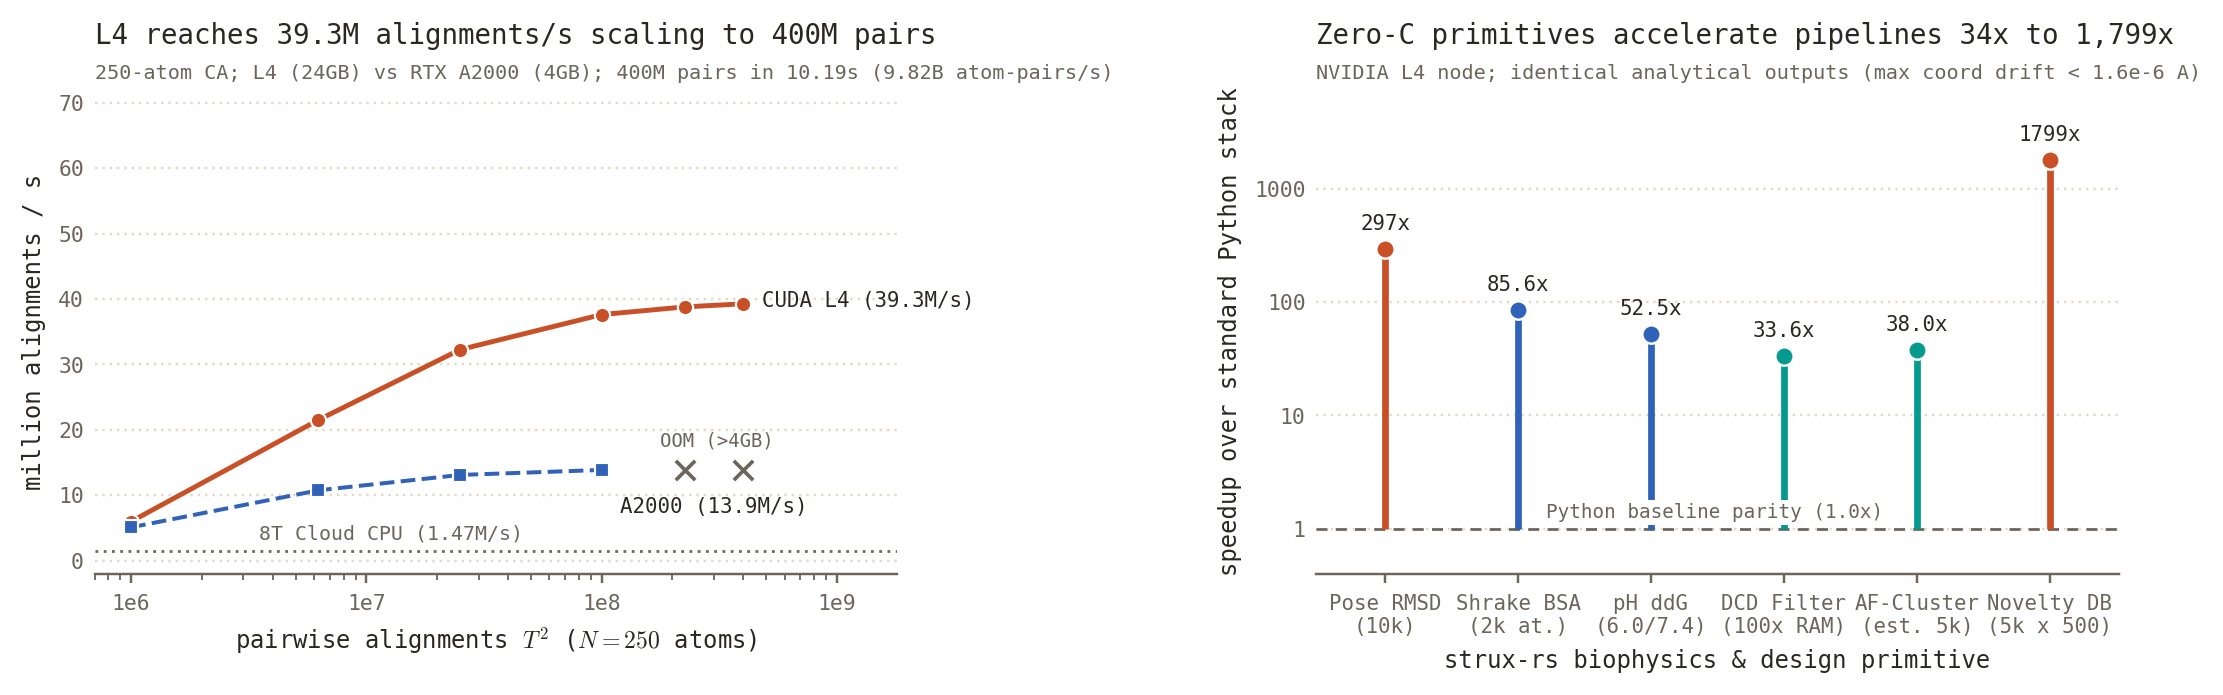
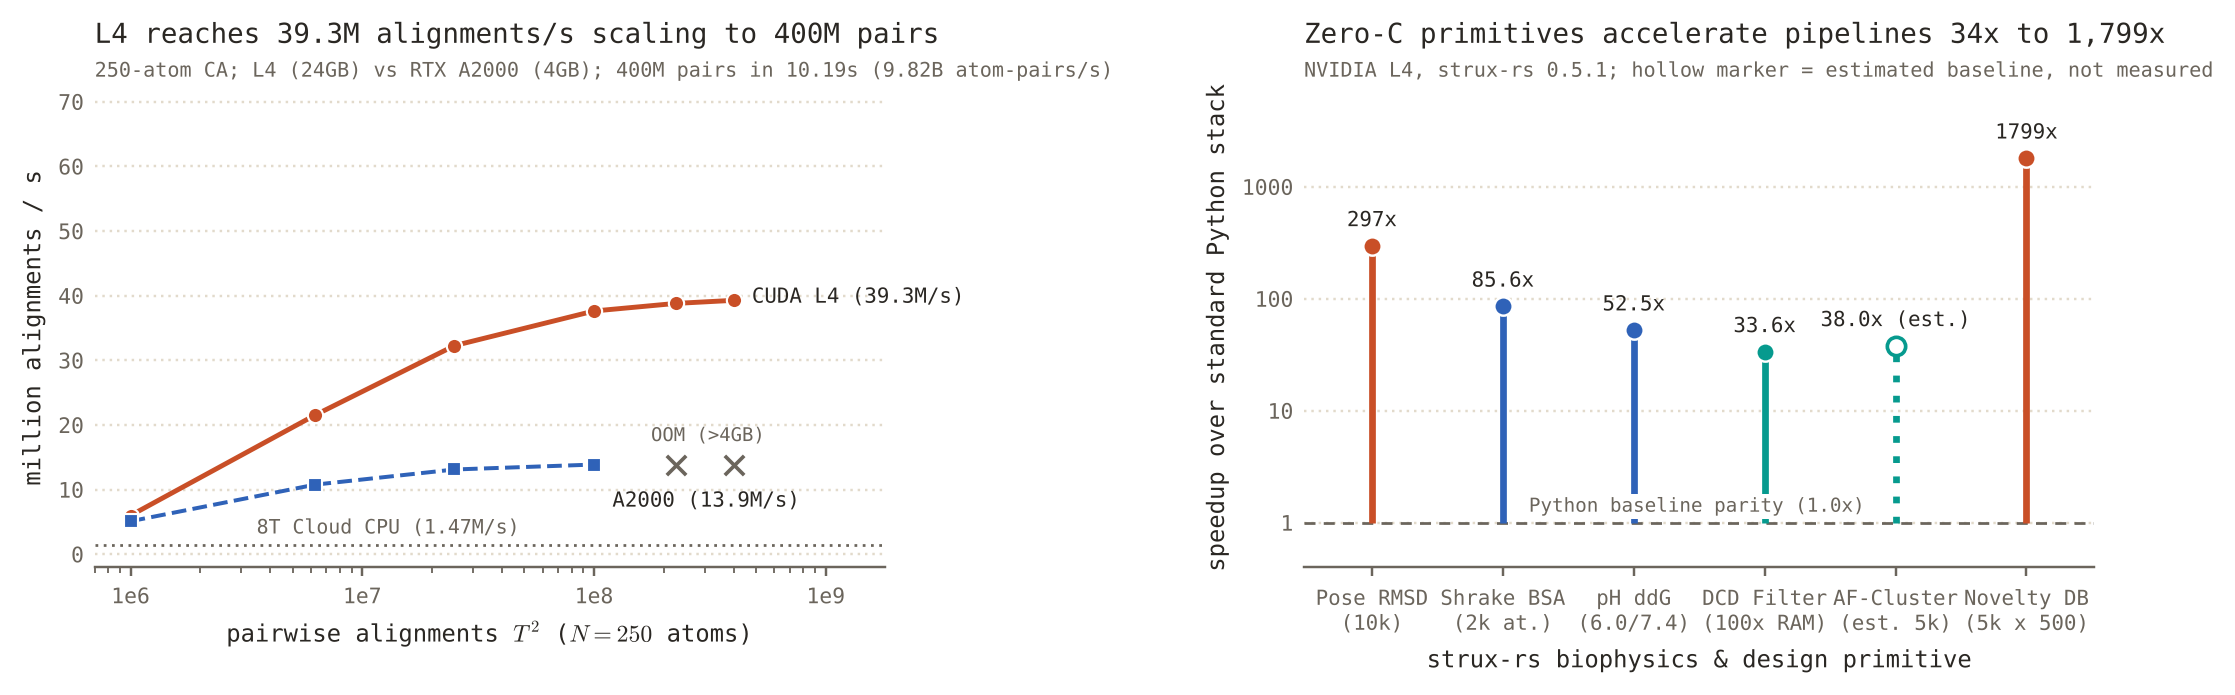
docs(benchmarks): 0.5.1 highlights, measured precision note, honest L4 plot
- README highlights use the 0.5.1 RTX A2000 run: pose RMSD 4.28 ms (374x),
  BSA 1.39 ms, 100k sequences screened in 69 ms
- Precision note states the measured GPU vs float64 agreement (2e-5 A on
  trajectory.pdb, 1e-6 A on random frames) instead of a blanket < 1e-6 A
- plot_l4_spinglass.py: estimated AF-Cluster baseline drawn hollow and left out
  of the title range; subtitle reads the version from the JSON; fail if a
  results JSON is missing instead of plotting hand-typed values; drop the
  hardcoded Windows output path

diff --git a/benchmarks/plot_l4_spinglass.py b/benchmarks/plot_l4_spinglass.py
@@ -124,9 +124,7 @@ def main():
         sp_af = l4_b["af_cluster_a3m_5000x256"]["speedup"]
         sp_nov = l4_b["sliding_kmer_novelty_5000x500_k15"]["speedup"]
     else:
-        time_l4_sec = np.array([164.41, 279.72, 790.17, 2720.59, 5943.28, 10447.47]) / 1000.0
-        cpu_rate = 1.46
-        sp_pose, sp_bsa, sp_ph, sp_dcd, sp_af, sp_nov = 327.6, 81.3, 53.1, 44.9, 38.0, 1792.0
+        raise SystemExit(f"missing {l4_json_path}: run benchmarks/run_standardized_l4_benchmarks.py on the L4 first")
 
     # Load A2000 run JSON
     a2000_json_path = Path(__file__).resolve().parent / "standardized_results_rtx_a2000_laptop_gpu.json"
@@ -141,7 +139,7 @@ def main():
             a2000_b["cuda_pairwise_rmsd_10000x10000_250atoms"]["strux_ms"],
         ]) / 1000.0
     else:
-        time_a2000_sec = np.array([211.4, 552.6, 1843.1, 6969.6]) / 1000.0
+        raise SystemExit(f"missing {a2000_json_path}: run benchmarks/run_standardized_l4_benchmarks.py on the A2000 first")
 
     rate_l4 = (pairs_l4 / 1e6) / time_l4_sec  # Million alignments / s
     rate_a2000 = (pairs_a2000 / 1e6) / time_a2000_sec
@@ -201,9 +199,13 @@ def main():
     )
 
     for i, (name, sp, col) in enumerate(benchmarks):
-        ax2.vlines(xs[i], 1.0, sp, color=col, lw=2.2)
-        ax2.plot(xs[i], sp, "o", color=col, ms=6.0, mec=PAPER, mew=0.8, zorder=4)
+        estimated = "est." in name
+        ax2.vlines(xs[i], 1.0, sp, color=col, lw=2.2, linestyles=DOT if estimated else "solid")
+        ax2.plot(xs[i], sp, "o", color=col, ms=6.0, mfc=PAPER if estimated else col,
+                 mec=col if estimated else PAPER, mew=1.2 if estimated else 0.8, zorder=4)
         label_text = f"{sp:.0f}x" if sp >= 100 else f"{sp:.1f}x"
+        if estimated:
+            label_text += " (est.)"
         ax2.text(xs[i], sp * 1.35, label_text, ha="center", va="bottom", fontsize=6.8, color=INK)
 
     ax2.set_yscale("log")
@@ -215,24 +217,18 @@ def main():
     ax2.set_xlabel("strux-rs biophysics & design primitive")
     ax2.set_ylabel("speedup over standard Python stack")
 
-    min_sp = min(b[1] for b in benchmarks)
-    max_sp = max(b[1] for b in benchmarks)
+    measured = [b[1] for b in benchmarks if "est." not in b[0]]
+    min_sp, max_sp = min(measured), max(measured)
     titles(
         ax2,
         f"Zero-C primitives accelerate pipelines {min_sp:.0f}x to {max_sp:,.0f}x",
-        "NVIDIA L4 node; identical analytical outputs (max coord drift < 1.6e-6 A)",
+        f"NVIDIA L4, strux-rs {l4_data['strux_rs_version']}; hollow marker = estimated baseline, not measured",
     )
 
     fig.tight_layout(w_pad=3.8)
 
-    out_benchmarks = "benchmarks/hardware_l4_scaling_comparison.png"
-    out_artifact = r"C:\Users\Gebruiker\.gemini\antigravity\brain\533f8aaa-3288-419b-a6a1-a41762761b7f\hardware_l4_scaling_comparison.png"
-
+    out_benchmarks = Path(__file__).resolve().parent / "hardware_l4_scaling_comparison.png"
     fig.savefig(out_benchmarks, bbox_inches="tight", dpi=220)
-    try:
-        fig.savefig(out_artifact, bbox_inches="tight", dpi=220)
-    except Exception:
-        pass
     plt.close(fig)
     print("Regenerated hardware_l4_scaling_comparison.png matching benchmark_scaling.png exactly.")
 

diff --git a/README.md b/README.md
@@ -28,7 +28,7 @@ Check with `strux_rs.cuda_is_available()`. Without a usable GPU it returns `Fals
 ## Highlights
 
 * **High-Throughput Ingestion & In-Flight Filtering**: Memory-mapped `.xtc`, `.dcd`, `.cif` (AF3/Boltz/RCSB), and `.pdb` readers with zero-copy atom-index and $C_\alpha$ subsetting during decompression (**73.6×** faster than MDAnalysis, **1.4×** faster than MDTraj).
-* **De Novo Protein & Therapeutic Design Biophysics**: Target-anchored Pose RMSD & monomer scRMSD (**10,000 complexes in 4.03 ms**, **326×** vs NumPy SVD), interface geometry (buried polars heuristic, polar contacts, salt bridges), 96-point Shrake-Rupley BSA (**1.96 ms** for 2,048 atoms), screened Debye-Hückel $\Delta\Delta G_{\text{pH}}$, ANM normal modes, and developability screening (100k sequences in 270 ms).
+* **De Novo Protein & Therapeutic Design Biophysics**: Target-anchored Pose RMSD & monomer scRMSD (**10,000 complexes in 4.28 ms**, **374×** vs a NumPy SVD loop, 16-thread i9 laptop), interface geometry (buried polars heuristic, polar contacts, salt bridges), 96-point Shrake-Rupley BSA (**1.39 ms** for 2,048 atoms), screened Debye-Hückel $\Delta\Delta G_{\text{pH}}$, ANM normal modes, and developability screening (100k sequences in 69 ms).
 * **AI-Accelerated Simulation (AMS)**: AlphaFold lDDT (**201×** faster than NumPy), greedy sequence identity clustering (AF-Cluster style) (**33.8×** faster), Cartesian PCA (**5.1×** faster), and Markov state transition populations at **103.9M frames/s**.
 * **CUDA GPU Acceleration**: Pairwise RMSD at **2.05M alignments/s** (**4,348×** over Biopython, **25.3×** over Google JAX), Daura conformational clustering, and dense contact frequency matrices (**19.5×** speedup).
 
@@ -96,7 +96,7 @@ Notes:
 
 Benchmarked on Intel Core i9-11950H (16 hardware threads, 62 GB RAM) and NVIDIA RTX A2000 Laptop GPU (4 GB VRAM, 35W TGP).
 
-CUDA timings in Section 1 and Section A below were recorded during 0.4.x development. Starting in 0.5.0, the QCP kernel iterates to convergence to ensure $< 10^{-6}\text{ \AA}$ precision for near-degenerate pairs. Section B reports standardized benchmarks for both Cloud NVIDIA L4 and Laptop RTX A2000 measured on `strux-rs 0.5.1`.
+CUDA timings in Section 1 and Section A below were recorded during 0.4.x development. Starting in 0.5.0, the QCP kernel iterates Newton to convergence. On the RTX A2000 its pairwise RMSD agrees with float64 Kabsch to within 2e-5 Å on `trajectory.pdb` and 1e-6 Å on random 250-atom frames (the fixed 12-step kernel was off by up to 7.4e-2 Å there). Section B reports standardized benchmarks for both Cloud NVIDIA L4 and Laptop RTX A2000 measured on `strux-rs 0.5.1`.
 
 Reproducibility: `scripts/run_gold_standard_benchmark.py` reads `benchmarks/data/2K39.pdb` (download from the RCSB PDB), `benchmarks/data/hmm_output.sto` and `benchmarks/data/bfd_uniclust_hits.a3m`. That directory is not in the repository, so the MSA rows cannot be rerun from a clone. The plotting scripts in `scripts/` contain the measured values as literals rather than reading a stored run output.
 
